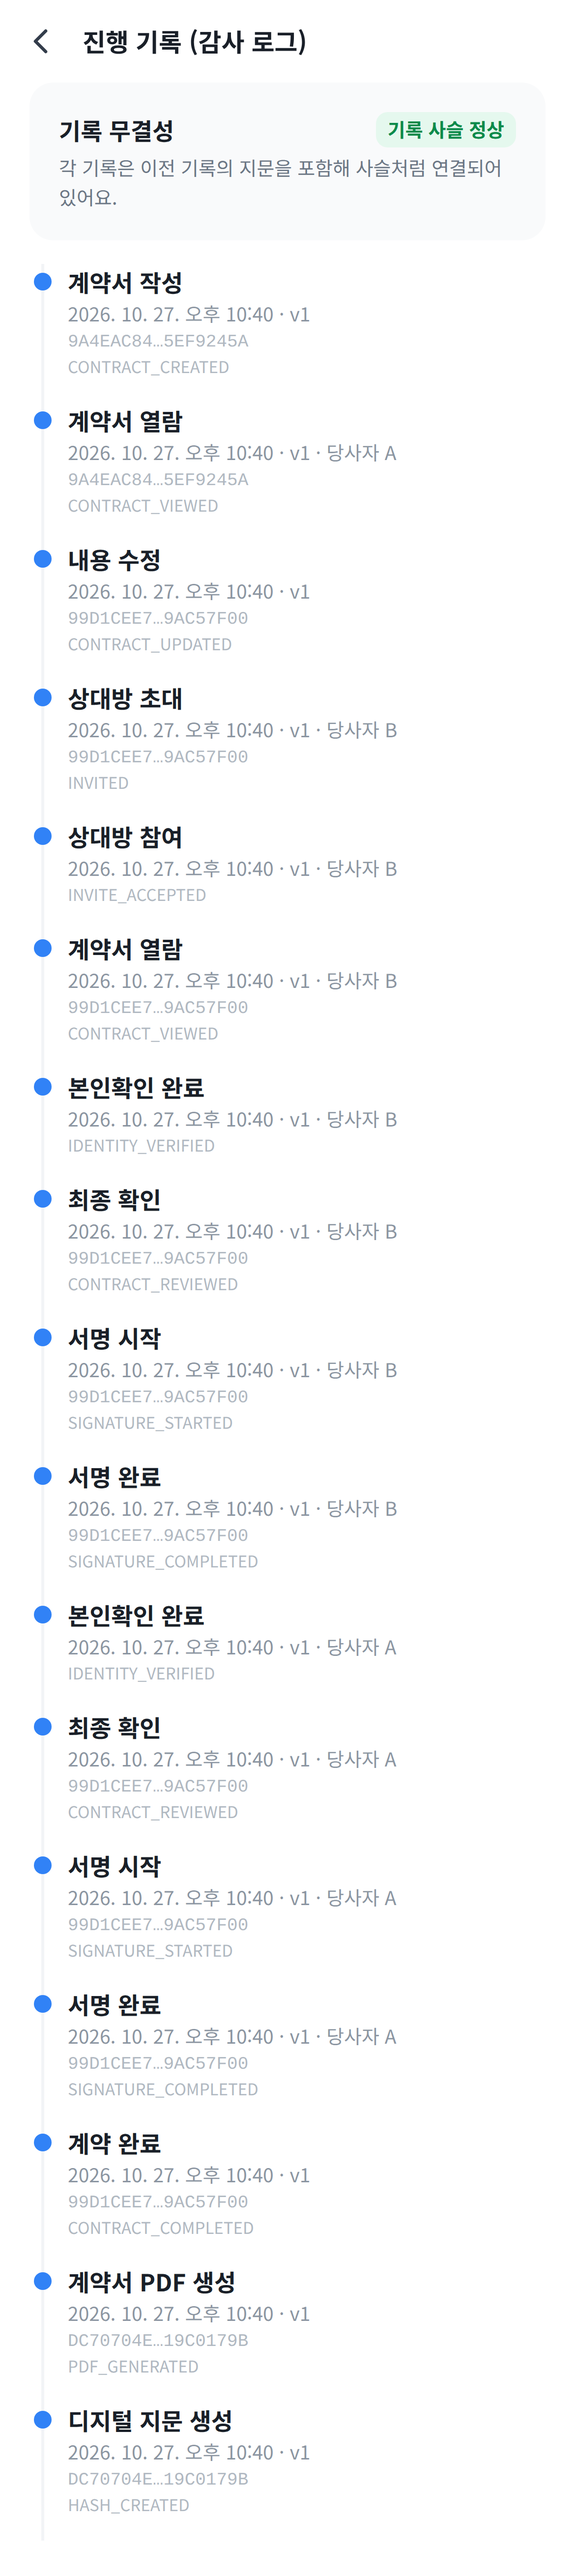
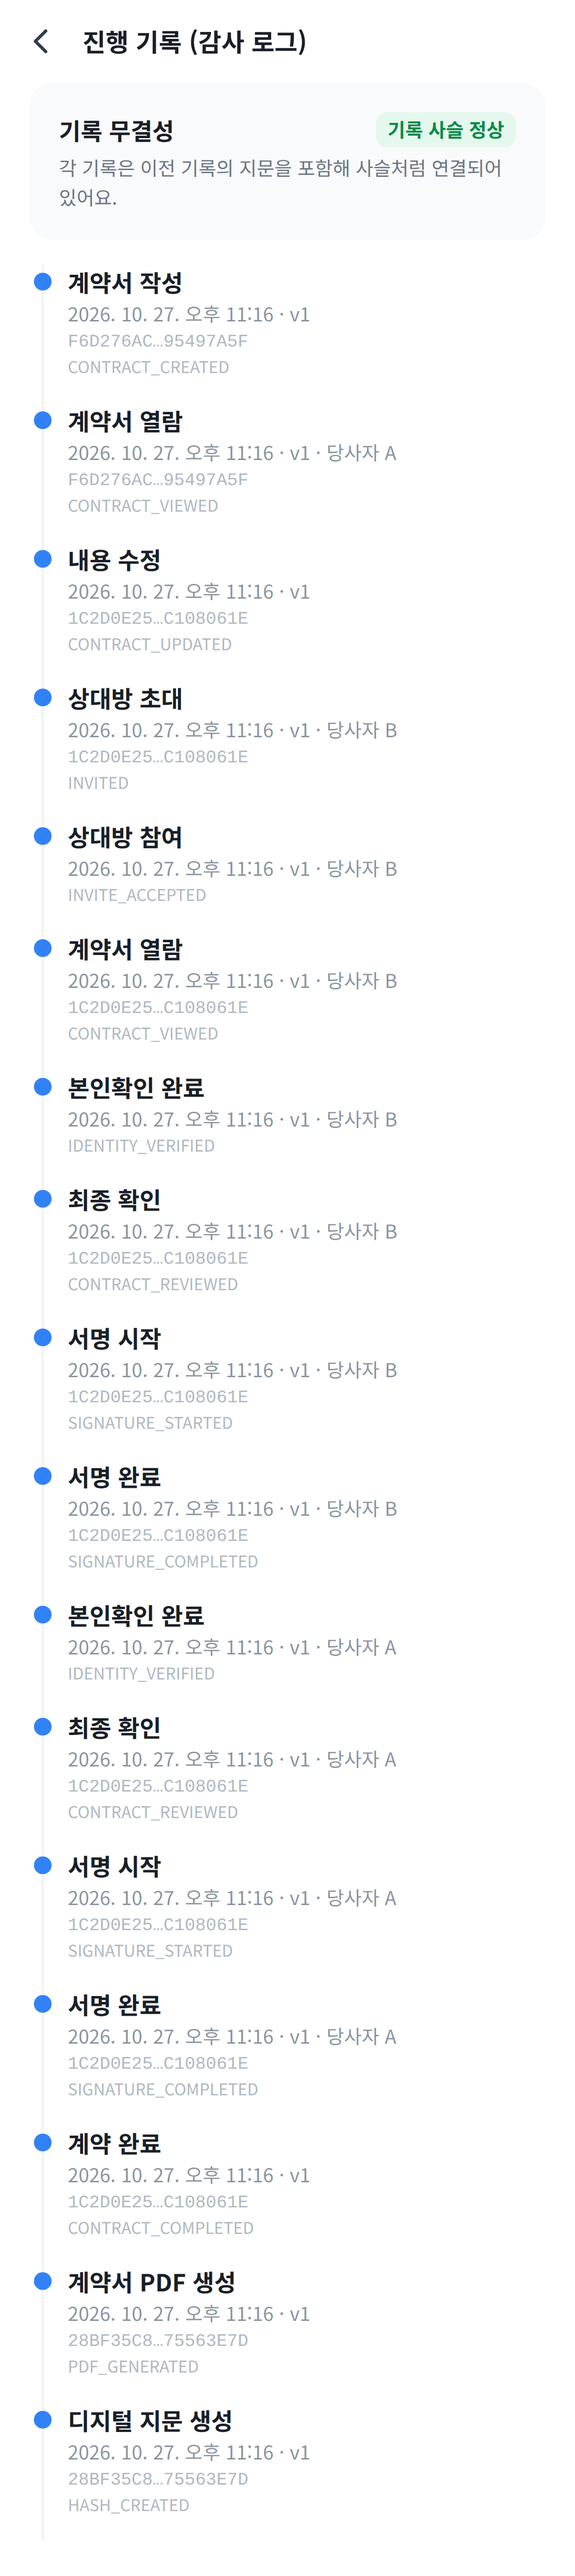
Refresh screenshots and test results after the 굳건 rename (281 passed)
Claude-Session: https://claude.ai/code/session_014AAswD3jj64SebTYayjPya

diff --git a/FINAL_TEST_REPORT.md b/FINAL_TEST_REPORT.md
@@ -1,6 +1,6 @@
 # 최종 테스트 보고서
 
-- 실행: `make test` (`scripts/run_all_tests.sh`) — 2026-10-27 13:40 UTC, 개발 컨테이너
+- 실행: `make test` (`scripts/run_all_tests.sh`) — 2026-10-27 14:17 UTC, 개발 컨테이너
 - 근거 파일: `test-results/summary.json`
 - 실제로 실행한 결과만 적었습니다. 외부 계정이 필요한 운영 연동은 **테스트하지 않았고**, 해당 칸은 "Mock"으로 표시했습니다.
 
